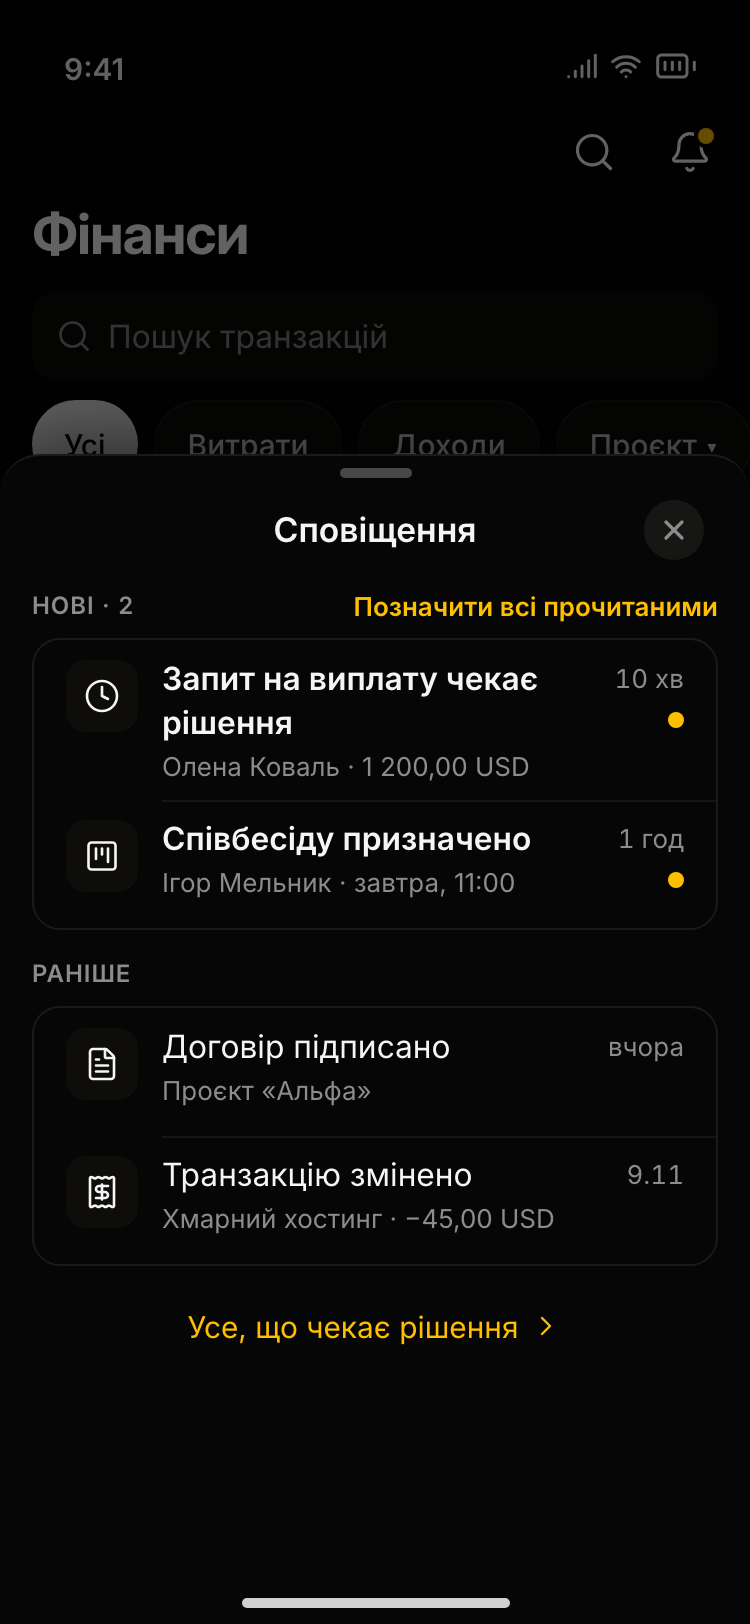
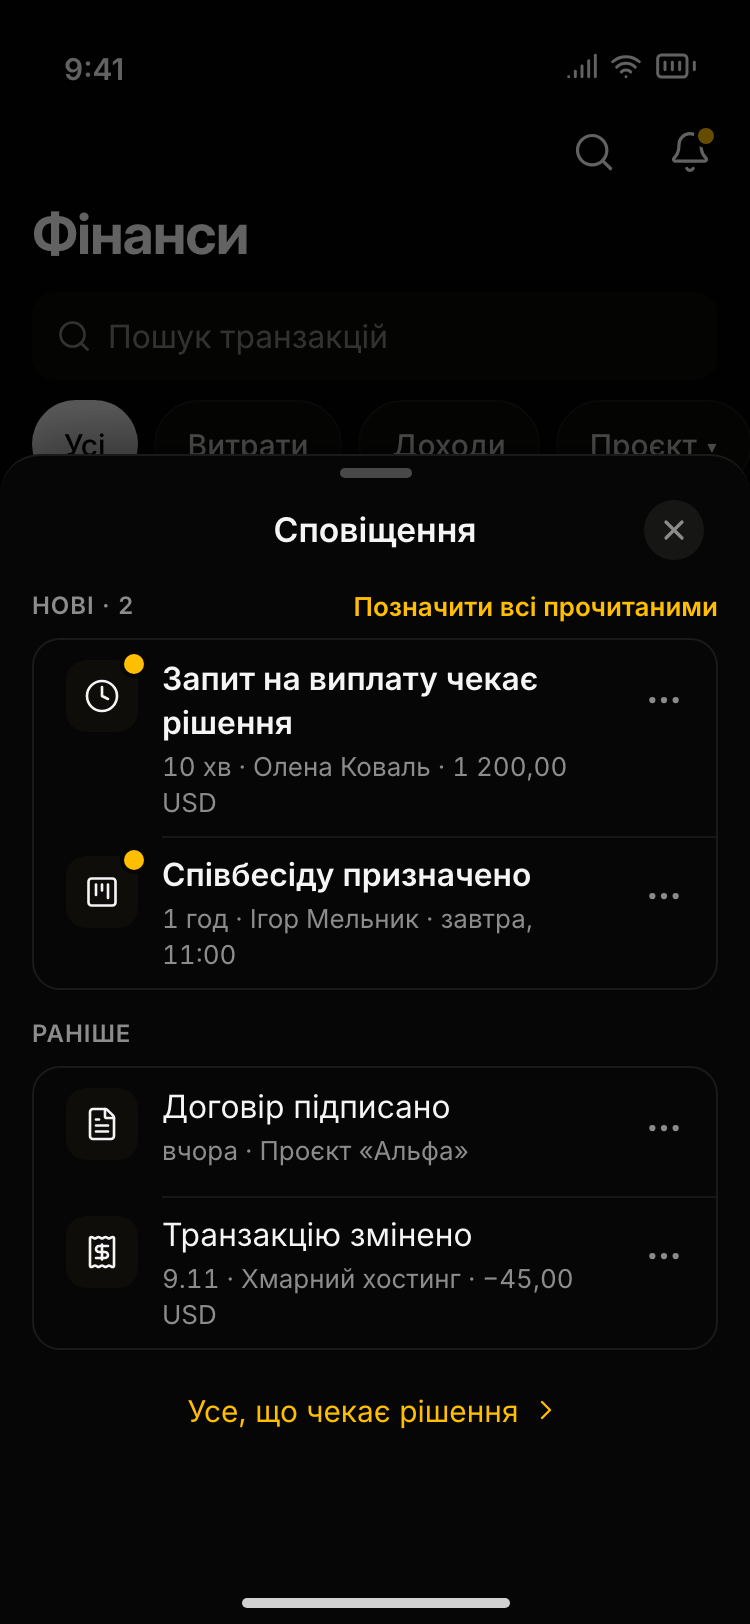
wip: touch-visible controls, board-768, owner-approved rulings (R11 A)

diff --git a/docs/design/screens/_foundation/primitives-v2.md b/docs/design/screens/_foundation/primitives-v2.md
@@ -143,8 +143,7 @@ full swipe does **not** delete; it asks with the action sheet. **Single-pointer 
 (SC 2.5.1 / 2.5.7): a row **with a pushed detail** (a transaction, a person) carries the same actions in
 its detail page, so it shows no «…» and its title never loses width to one at 375. A row **without a
 pushed detail** (a file, a receipt) shows a visible 44 px «…» button (`aria-label` «Дії з файлом»,
-`aria-haspopup="menu"`); it and a long-press open the same actions as a context menu. Long-press on a
-row with a detail opens the same menu as a shortcut, never the only path. Rows set
+`aria-haspopup="menu"`); it and a long-press open the same actions as a context menu. Long-press on a row with a detail opens the same menu as a shortcut, never the only path. A control that hover reveals at a fine pointer is always visible under a coarse pointer, at 44 px (foundation §13). Rows set
 `-webkit-touch-callout: none` so the long-press does not raise the iOS link / image callout.
 
 **Pushed detail page** (`detail-txn-375`, `detail-person-375`): the target of a row with a detail, and
@@ -174,13 +173,11 @@ Long titles truncate on one line with the full text as the accessible name.
 **Board** (`board-1440`, `board-stage-sheet-375`; today the interviews pipeline). At ≥ 640: one column per
 active stage, 208 px wide, scrolling sideways. The column header holds the stage name and its count
 (`tabular-nums`; the accessible name reads «Технічна, 2»). A card shows initials, the name (wraps, never
-truncates), one muted line (role · project) and a date (`tabular-nums`). **Card states:** rest; hover or
-focus shows a 32 px «Змінити етап» button in the top-right corner (focus ring per foundation §13); the **drag
+truncates), one muted line (role · project) and a date (`tabular-nums`). **Card states:** rest; at a fine pointer, hover or focus shows a 32 px «Змінити етап» button in the top-right corner (tooltip «Змінити етап (M)»; focus ring per foundation §13); under `(pointer: coarse)` that button is always visible with a 44 px hit area (foundation §13, `board-768`); the **drag
 source** stays in place at 35 % opacity with a dashed border; the **lifted card** follows the pointer,
 raised (`--raised`, shadow) and never rotated. The **drop target** column gets the yellow-subtle fill, a
 dashed `--primary` outline and a dashed slot where the card will land. A polite live region narrates the
-drag («Олена Коваль: над «Технічна». Відпустіть, щоб перемістити, або Esc, щоб скасувати.»); Esc cancels
-and the card goes back. A failed move returns the card to its column with an inline error on the card;
+drag («Олена Коваль: над «Технічна». Відпустіть, щоб перемістити, або Esc, щоб скасувати.»); Esc cancels and the card goes back. Under a coarse pointer a drag starts only after a ~250 ms press (5 px tolerance); a shorter swipe scrolls the board. A failed move returns the card to its column with an inline error on the card;
 nothing else moves.
 
 **Keyboard move:** Tab reaches each card and Enter opens it. `M` (only while a card has focus, so SC 2.1.4
@@ -404,8 +401,7 @@ must not share one UI (spec §4.5b):
   («Оновлено о 14:34:01. Тепер можна створити ще раз»; with a «збіг» the status reads «Оновлено о 14:34:01. Знайдено збіг» and never announces the unlock; the unlock text shows only when there is no match); then a confirm «Створити 1 250,50 USD ще
   раз?» and exactly one new create. Wave 1 AC: the list API takes a created-after time and returns the current user's rows
   created from it, ordered by creation time, newest first. The list response exposes `Date` (`Access-Control-Expose-Headers` if the API is cross-origin). The check-sheet fetch is a network request with `cache: 'no-store'`, excluded from every service-worker route and from the TanStack cache: a cached or service-worker fallback never unlocks the recreate and never gives the offset. Only a 2xx response counts as a successful refetch, and `offset` comes only from that response's `Date`. «збіг» compares the server-normalised values (as the list returns them), never the values the form sent. This is a user-confirmed new
-  create after seeing the refreshed list, not an automatic or one-tap resubmit (provisional; the owner
-  confirms at PNG approval). Closing the sheet returns to the form. When the user reaches the Finance
+  create after seeing the refreshed list, not an automatic or one-tap resubmit (owner-approved 2026-11-12). Closing the sheet returns to the form. When the user reaches the Finance
   list another way, the kept draft is a pinned row at the top (`listrow-draft-375`): the amount alone
   on one line with no wrap («1 250,50 USD»), the state line «Не збережено · Витрата» (after an unknown
   outcome «Результат невідомий · Витрата») and **one** 44 px tonal «Відкрити» (no other action on the row). A pinned row is never a primary: its «Відкрити» is tonal (foundation §7.5). The 2 px leading bar, the border and the «Відкрити» tint are `--destructive` for a failed draft and `--warning` for an unknown one; armed and in-flight rows stay muted. The phone row carries no icon tile, so the state line fits on one line at 375 beside «Відкрити»; the desktop row keeps its icon. **Up to three pinned rows** show, unresolved first by the slot precedence; the block collapses only when it saves a row: from four drafts on, two show and the rest collapse into one row «Ще N чернеток · Показати» (N ≥ 2), which expands them in place; its label then toggles to «Згорнути», it keeps `aria-expanded`, and it resets to collapsed on a route change (`drafts-two-unresolved-375`; four drafts, collapsed: `drafts-four-collapsed-375`, two rows and «Ще 2 чернетки · Показати» with `aria-expanded="false"`; the count takes the Lingui plural, «Ще 5 чернеток»). Each row has two lines: the amount alone on one line with no wrap («1 250,50 USD»), then state · type («Результат невідомий · Витрата»). «+» never blocks: with unresolved drafts (failed or unknown), **on Фінанси every «+» opens a new form directly** (the FAB, the rail «+», the header «Нова транзакція» and `C`): the pinned rows and the pill already show the drafts there, and `C` stays one key on the main money page. On the other pages a money draft **never hides other actions**: the drafts join the existing «+» menus and never replace them. The quick-add sheet (phone) and the rail «+» menu (tablet) keep the role's normal action list; with unresolved drafts a «Чернетки» section sits on top, each draft row in the pinned-row format (the amount, then state · type, and «Відкрити»); **any menu shows at most 2 draft rows** (the quick-add sheet, the rail «+» menu and the header compact menu): from 3 drafts, the first 2 by the slot precedence, and the «Чернетки» section header gains a trailing text button «Усі чернетки (N)» (a 44 px hit area that adds no height, so 320 × 568 still fits), which opens Фінанси scrolled to the pinned rows (`primitives-v2/quick-add-drafts-three-320`), then the normal actions in `role="group"` with a visually hidden label «Дії» (the drafts group is labelled by its «Чернетки» header), «Нова транзакція» among them (`primitives-v2/quick-add-drafts-375` from Статистика and `drafts-chooser-768` from Співбесіди, both with the 4 ADMIN actions); in the rail menu «Нова транзакція», the first normal action, takes the initial focus without a drawn ring: the tablet is touch, and the ring shows only on `:focus-visible` (a keyboard). A page FAB whose action is not money (Користувачі «Новий користувач», Співбесіди «Нова співбесіда», Вакансії «Створити вакансію») never changes and gets no dot. The header «Нова транзакція» and `C`, a money trigger by name, open a compact menu: the «Чернетки» section above, «Нова транзакція» last with the initial focus, so `C` then Enter still creates (`primitives-v2/drafts-chooser-1440` on Статистика). Every menu off the phone is `role="menu"` with the trigger `aria-haspopup="menu"`; ↑ / ↓ move between the items, and Esc closes it and returns focus to the trigger; under `(pointer: coarse)` the key hints («↑ ↓», «Enter») are hidden and a draft's state line is at least 13 px. The money FAB on Фінанси and the quick-add «+» keep their «+» and gain a red dot (with the count from two); the accessible name says the count: «Нова транзакція, 1 чернетка потребує уваги» on Фінанси, «Створити, 2 чернетки потребують уваги» on the quick-add «+» (`listrow-draft-375`,
@@ -608,6 +604,8 @@ Re-render: `node assets/src/render.mjs primitives [filter]`, then `assets/src/co
   the «Етап» picker; the phone has no drag at all.
 - Swipe and long-press actions have a single-pointer path: the row's detail page, or a visible 44 px
   «…» on rows without a detail.
+- Hover never hides a control: under a coarse pointer every hover-revealed control (the board's «Змінити
+  етап», a row's trailing delete) is always visible at 44 px (foundation §13).
 - The money-form primary is never disabled for validity; a tap moves focus to the first invalid field.
   In flight it is `aria-disabled="true"` with its spinner, never `disabled`, so focus stays on it.
 - Every interactive element is a native `<button>` or `<a>` (rows with a detail, contact rows, the

diff --git a/docs/design/screens/_foundation/shell-v2.md b/docs/design/screens/_foundation/shell-v2.md
@@ -143,8 +143,7 @@ tab bar holds **4 destinations + «Ще»**. «Ще» holds everything else, gro
   (`notifications-1440`). The bell reads «Сповіщення, 2 нові» and carries the unread dot while anything is
   unread.
 - **Content:** the latest 10 from the existing feed (`GET /api/notifications?limit=10`), «Нові · N» then
-  «Раніше». A row: icon tile, title (600 while unread; wraps, never truncates), one muted line, relative
-  time (`tabular-nums`), and a yellow dot while unread. The footer link «Усе, що чекає рішення» opens
+  «Раніше». A row: icon tile (a yellow dot on its corner while unread), title (600 while unread; wraps, never truncates) and one muted line that starts with the relative time (`tabular-nums`) and wraps, so an amount is never cut. The footer link «Усе, що чекає рішення» opens
   Чекають рішення.
 - **States:** the unread list; **empty**: «Сповіщень немає» and «Тут з’являться події за вашими проєктами,
   грошима та документами», with no «Позначити всі прочитаними» and no bell dot (`notifications-empty-375`);
@@ -152,8 +151,7 @@ tab bar holds **4 destinations + «Ще»**. «Ще» holds everything else, gro
   «Повторити», which re-reads only; a list loaded before stays visible under it.
 - **Mark read:** opening a row marks it read (optimistic; the dot goes at once). «Позначити всі
   прочитаними» is a text button in the list header (a 44 px hit area that adds no height); it shows only
-  while something is unread, marks every row read and asks nothing, because nothing is lost. The existing
-  per-row delete stays: a swipe action on the phone, a trailing icon on hover or focus at ≥ 640.
+  while something is unread, marks every row read and asks nothing, because nothing is lost. The existing per-row delete stays. Phone: a trailing swipe, plus a visible 44 px «…» («Дії зі сповіщенням») and a long-press that open the same menu; this is the pattern for a row without a pushed detail (primitives-v2 §3), because the target page carries no delete. At ≥ 640: a trailing delete icon that hover or focus reveals at a fine pointer and that is always visible at 44 px under a coarse pointer (foundation §13).
 - **Open the target:** a row is a link to its target (deep link). The panel closes, the target page is
   pushed, and back returns to the page the bell was opened on, never to the panel. A target the viewer
   can no longer see opens that page's own not-found state. Drafts and markers are untouched (foundation
@@ -343,7 +341,6 @@ Re-render: `node assets/src/render.mjs shell [filter]`, then `assets/src/contact
   and payouts; JUNIOR: own salary). What each role really sees is the existing RBAC, unchanged by v2.
 - The armed save after an upload (frozen payload, kept across a sheet dismiss, carried by the pill)
   and the in-memory draft are proposals; the Wave 1 finance spec confirms them per form. The draft row
-  is drawn (`primitives-v2/listrow-draft-375`). The two unknown-outcome exits are a provisional ruling;
-  the owner confirms them at PNG approval.
+  is drawn (`primitives-v2/listrow-draft-375`). The two unknown-outcome exits are owner-approved 2026-11-12.
 - The notifications header button reads «Позначити всі прочитаними» per the R10 brief; the shipped catalog says
   «Прочитати все». Wave 1 renames it in both `uk` and `en` (copy-reviewer).

diff --git a/docs/design/foundation.md b/docs/design/foundation.md
@@ -389,8 +389,7 @@ reference widths below. Mobile-first: the base is mobile, scale up with `sm` / `
     returns, the sheet's one
     `role="status"` announces the unlock once («Оновлено о 14:34:01. Тепер можна створити ще раз»;
     with a «збіг» the status reads «Оновлено о 14:34:01. Знайдено збіг» and never announces the unlock; the unlock text shows only when there is no match)
-    (`primitives-v2/toast-error-unknown-375.png`, `toast-error-unknown-list-375.png`). Both exits are a
-    provisional ruling; the owner confirms them at PNG approval. Reached from elsewhere, the kept form is
+    (`primitives-v2/toast-error-unknown-375.png`, `toast-error-unknown-list-375.png`). Both exits are owner-approved 2026-11-12. Reached from elsewhere, the kept form is
     the pinned row «1 250,50 USD» · «Результат невідомий · Витрата» with a tonal «Відкрити»
     (`primitives-v2/listrow-draft-375.png`).
   - App 500/503 counts as definite only for endpoints that commit in one DB transaction and swallow post-commit errors; Wave 1 verifies this per endpoint (AC + test) before the form shows a retry.
@@ -524,6 +523,9 @@ listed, and anything the v2 screen shows must trace back to that list.
 
 - **Targets:** ≥ 44 × 44 for every coarse-pointer control, by pointer type, not width (HIG; §4);
   ≥ 24 × 24 for a fine pointer (SC 2.5.8). Small icons get an enlarged hit area.
+- **Hover never hides a control:** every control that hover or focus reveals at a fine pointer (the board's
+  «Змінити етап», a row's trailing delete, a table row's actions) is always visible under
+  `(pointer: coarse)`, with a 44 px hit area. Nothing depends on hover alone (primitives-v2 §3, §9).
 - **Contrast:** text 4.5:1, large text and UI parts 3:1. Measured values: §7. Do not lower them.
 - **Focus:** visible 2 px yellow ring with offset on every interactive element (SC 2.4.11 / 2.4.7);
   focus never hidden under the sticky header, tab bar or a toast (SC 2.4.11).
@@ -572,3 +574,5 @@ listed, and anything the v2 screen shows must trace back to that list.
   timeout. The Wave 1 client tells an app-originated 500 / 503 from a gateway one by the app's error
   envelope (a gateway page has none); without the envelope the response counts as unknown.
 - The sidebar collapse shortcut is `[` (single key, so it sits behind the SC 2.1.4 toggle), not ⌘\.
+- Owner-approved 2026-11-12 (final rulings): the unknown-outcome draft, «+» never blocks, the check
+  sheet, the app-owned boot guard, the 401 state, paged search and the detail pane.
